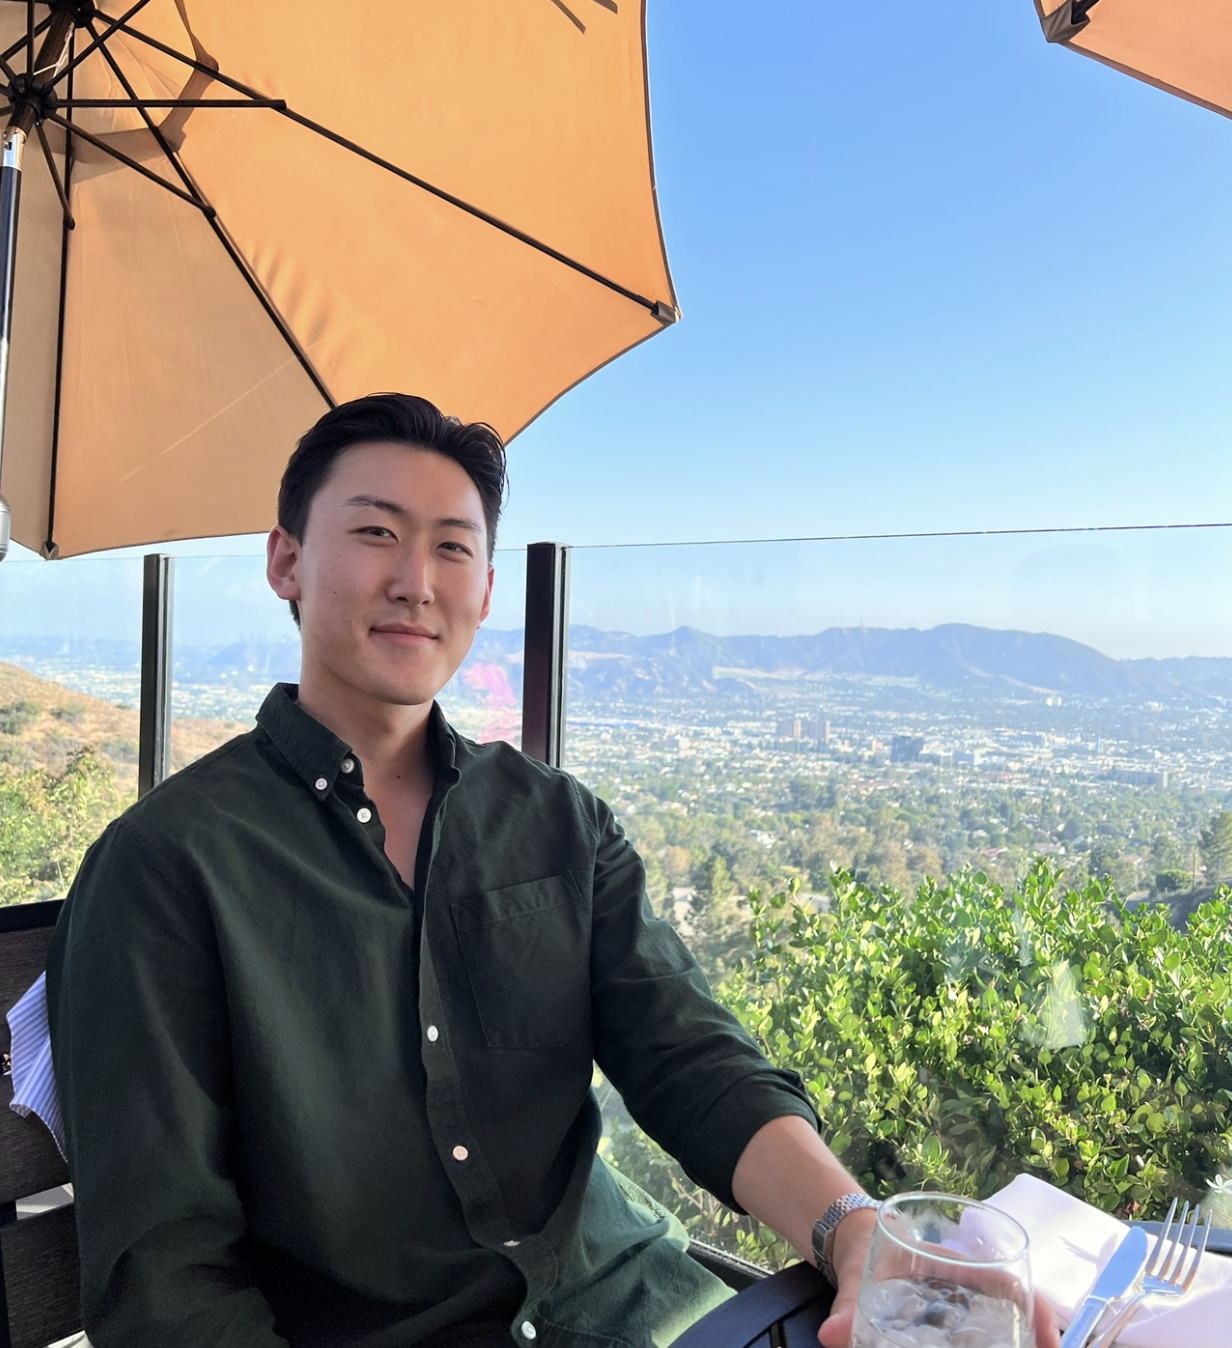
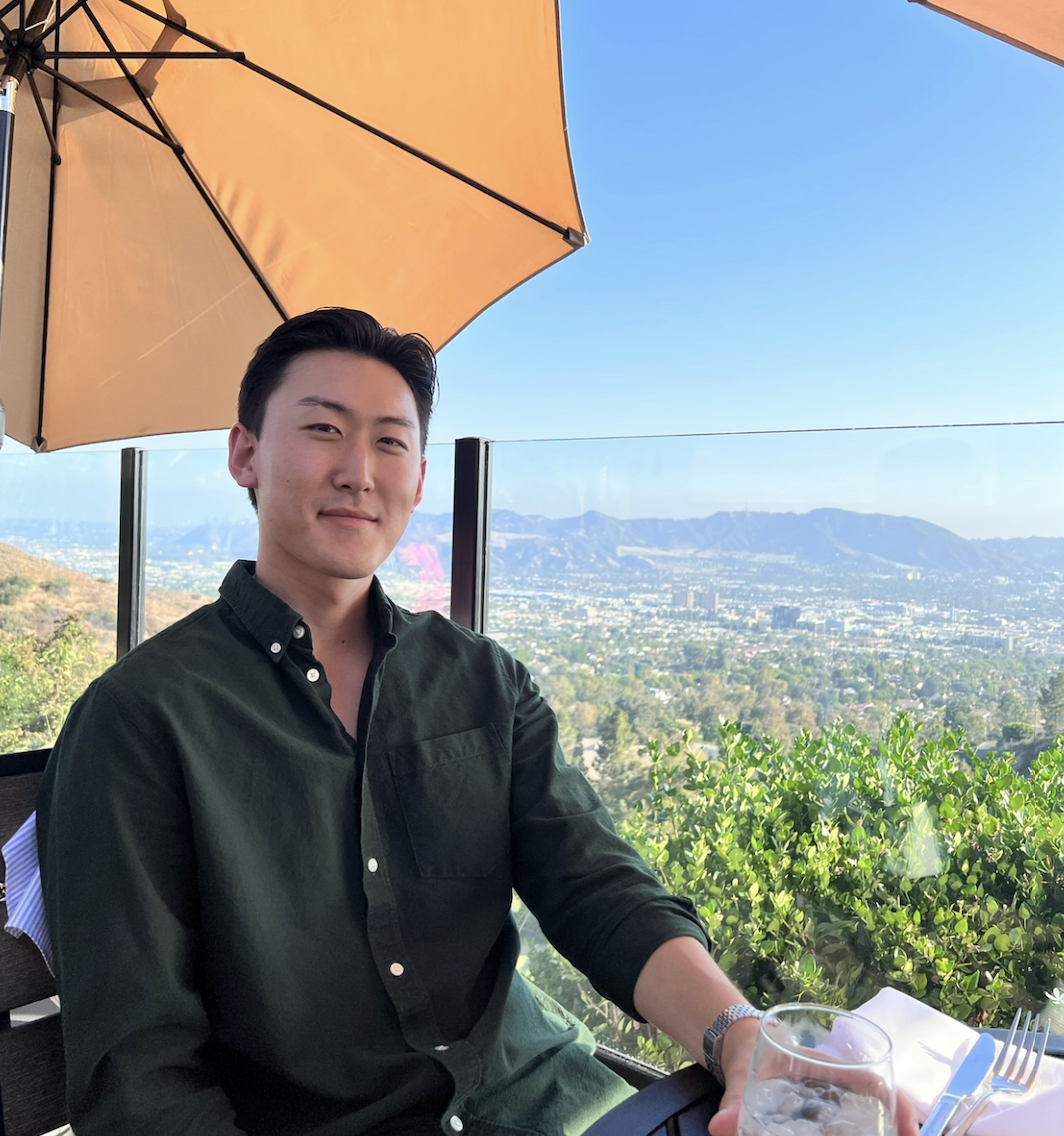
updated image

diff --git a/src/Homepage.scss b/src/Homepage.scss
@@ -65,7 +65,7 @@ Button {
 @media (max-width: 549px) {
 	.header {
       flex-direction: column;
-      height: 763px;
+      height: 860px;
       padding: 0vw 0vw 0vw 0vw;
    }
 }
@@ -84,11 +84,11 @@ Button {
 @media (max-width: 549px) {
 	.header-left {
       width: 100vw;
-      height: 348px;
+      height: 400px;
       padding: 30px 0px 0px 0px;
       img {
-         width: 290px;
-         border-radius: 10%;
+         width: 85vw;
+         border-radius: 0%;
       }
    }
 }
